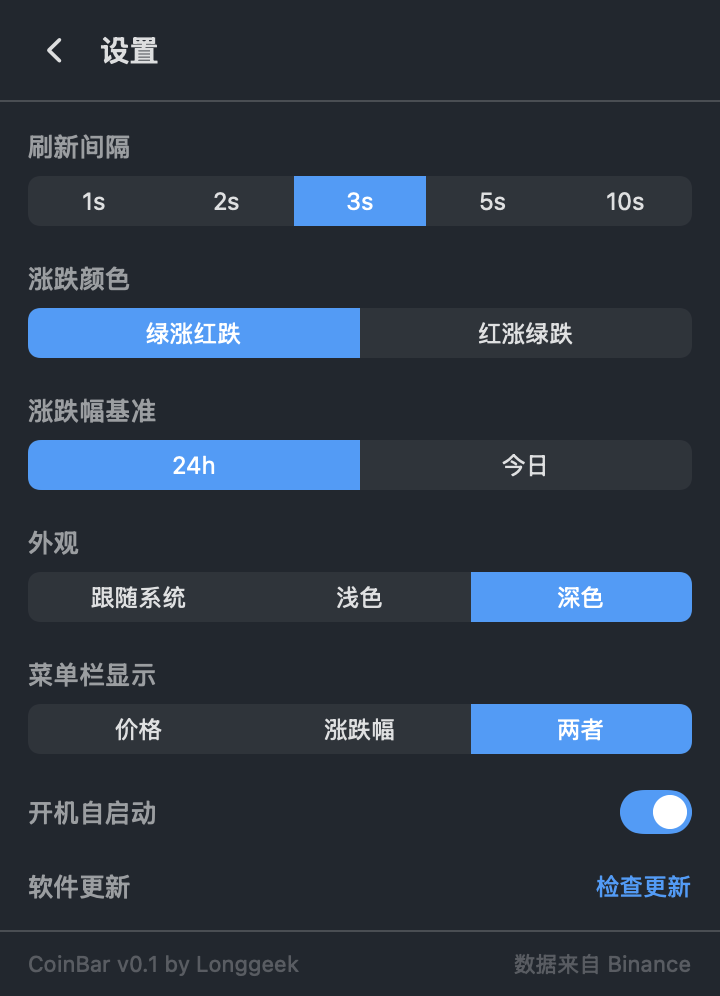
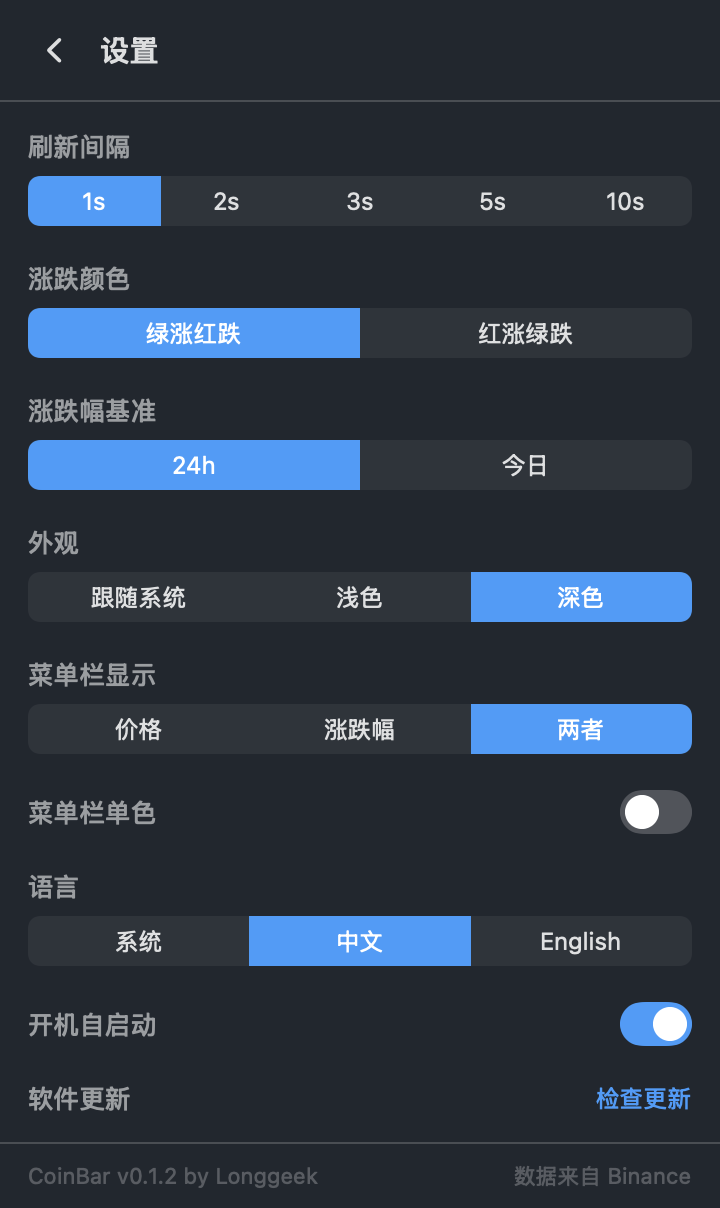
feat: 菜单栏标签加粗提亮 + 「菜单栏单色」选项(失焦/外接屏更清晰)
- 彩色标签字重 .semibold + 提亮绿/红,被系统调暗时更清楚
- 新增「菜单栏单色」:模板渲染(系统着色),外接屏失焦 dim 像原生项一样自然,代价是菜单栏失去绿/红(弹窗内仍有色)

diff --git a/Sources/CoinBar/CoinBarApp.swift b/Sources/CoinBar/CoinBarApp.swift
@@ -42,21 +42,21 @@ final class AppDelegate: NSObject, NSApplicationDelegate, NSWindowDelegate, UNUs
     // MARK: 菜单栏彩色标签(非模板 NSImage,保留绿/红)
     @MainActor private func updateLabel() {
         guard let button = statusItem?.button else { return }
-        let img = Self.barImage(model: model)
-        img.isTemplate = false
-        button.image = img
+        button.image = Self.barImage(model: model)   // isTemplate 由 barImage 按 barMono 决定
     }
 
     @MainActor private static func barImage(model: TickerModel) -> NSImage {
-        let font = NSFont.monospacedDigitSystemFont(ofSize: 13, weight: .medium)
-        let green = NSColor(srgbRed: 0.09, green: 0.78, blue: 0.52, alpha: 1)
-        let red = NSColor(srgbRed: 0.92, green: 0.22, blue: 0.26, alpha: 1)
-        let upC = model.redUp ? red : green, downC = model.redUp ? green : red
+        let mono = model.barMono
+        let font = NSFont.monospacedDigitSystemFont(ofSize: 13, weight: .semibold)
+        let green = NSColor(srgbRed: 0.13, green: 0.85, blue: 0.55, alpha: 1)
+        let red = NSColor(srgbRed: 1.0, green: 0.34, blue: 0.35, alpha: 1)
+        let upC: NSColor = mono ? .labelColor : (model.redUp ? red : green)
+        let downC: NSColor = mono ? .labelColor : (model.redUp ? green : red)
         let attr = NSMutableAttributedString()
         let segs = model.barSegments()
         if segs.isEmpty {
             attr.append(NSAttributedString(string: "CoinBar",
-                attributes: [.font: font, .foregroundColor: NSColor(white: 0.65, alpha: 1)]))
+                attributes: [.font: font, .foregroundColor: mono ? NSColor.labelColor : NSColor(white: 0.65, alpha: 1)]))
         } else {
             for (i, seg) in segs.enumerated() {
                 if i > 0 { attr.append(NSAttributedString(string: "   ", attributes: [.font: font])) }
@@ -75,6 +75,7 @@ final class AppDelegate: NSObject, NSApplicationDelegate, NSWindowDelegate, UNUs
         img.lockFocus()
         attr.draw(at: NSPoint(x: 1, y: 1))
         img.unlockFocus()
+        img.isTemplate = mono   // 单色 → 模板渲染(系统着色,失焦/外接屏 dim 更自然)
         return img
     }
 

diff --git a/Sources/CoinBar/SettingsView.swift b/Sources/CoinBar/SettingsView.swift
@@ -18,6 +18,7 @@ struct SettingsView: View {
                 row(L("涨跌幅基准", "Change basis")) { changeBasisControl }
                 row(L("外观", "Appearance")) { appearanceControl }
                 row(L("菜单栏显示", "Menu bar")) { barStyleControl }
+                settingRow(L("菜单栏单色", "Mono menu bar")) { monoControl }
                 row(L("语言", "Language")) { langControl }
                 settingRow(L("开机自启动", "Launch at login")) { launchControl }
                 settingRow(L("软件更新", "Updates")) {
@@ -37,6 +38,7 @@ struct SettingsView: View {
         .onChange(of: model.barStyle) { _ in model.saveSettings() }
         .onChange(of: model.changeBasis) { _ in model.saveSettings(); Task { await model.refreshDayOpens() } }
         .onChange(of: model.lang) { _ in model.saveSettings() }
+        .onChange(of: model.barMono) { _ in model.saveSettings() }
     }
 
     private var header: some View {
@@ -124,6 +126,15 @@ struct SettingsView: View {
         } else {
             Toggle("", isOn: Binding(get: { model.launchAtLogin }, set: { model.setLaunchAtLogin($0) }))
                 .labelsHidden().toggleStyle(.switch)
+        }
+    }
+    @ViewBuilder private var monoControl: some View {
+        if preview {
+            let on = model.barMono
+            Capsule().fill(on ? skin.accent : Color.gray.opacity(0.4)).frame(width: 36, height: 22)
+                .overlay(Circle().fill(.white).padding(2.5), alignment: on ? .trailing : .leading)
+        } else {
+            Toggle("", isOn: $model.barMono).labelsHidden().toggleStyle(.switch)
         }
     }
 

diff --git a/Sources/CoinBar/TickerModel.swift b/Sources/CoinBar/TickerModel.swift
@@ -25,6 +25,7 @@ final class TickerModel: ObservableObject {
     @Published var redUp: Bool                    // true=红涨绿跌(A股) / false=绿涨红跌
     @Published var appearance: String             // auto | light | dark
     @Published var barStyle: String               // 菜单栏显示:price | change | both
+    @Published var barMono: Bool                  // 菜单栏单色(模板渲染,失焦/外接屏 dim 更自然)
     @Published var changeBasis: String            // 涨跌幅基准:24h | today
     @Published var lang: String { didSet { Localize.lang = lang } }   // 语言:auto | zh | en
     @Published var launchAtLogin: Bool             // 开机自启动(SMAppService)
@@ -50,6 +51,7 @@ final class TickerModel: ObservableObject {
         self.redUp = UserDefaults.standard.bool(forKey: "redUp")
         self.appearance = UserDefaults.standard.string(forKey: "appearance") ?? "auto"
         self.barStyle = UserDefaults.standard.string(forKey: "barStyle") ?? "price"
+        self.barMono = UserDefaults.standard.bool(forKey: "barMono")
         self.changeBasis = UserDefaults.standard.string(forKey: "changeBasis") ?? "24h"
         self.lang = UserDefaults.standard.string(forKey: "lang") ?? "auto"
         self.launchAtLogin = (SMAppService.mainApp.status == .enabled)
@@ -92,6 +94,7 @@ final class TickerModel: ObservableObject {
         d.set(redUp, forKey: "redUp")
         d.set(appearance, forKey: "appearance")
         d.set(barStyle, forKey: "barStyle")
+        d.set(barMono, forKey: "barMono")
         d.set(changeBasis, forKey: "changeBasis")
         d.set(lang, forKey: "lang")
     }